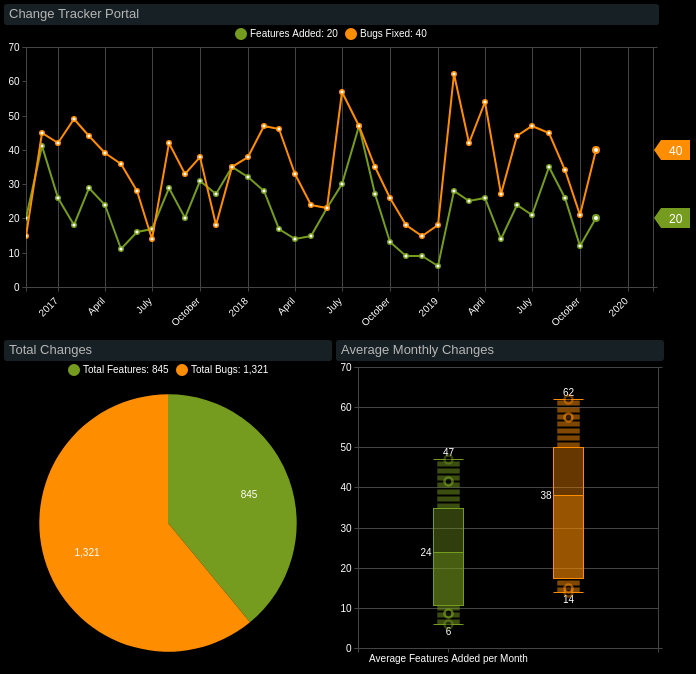
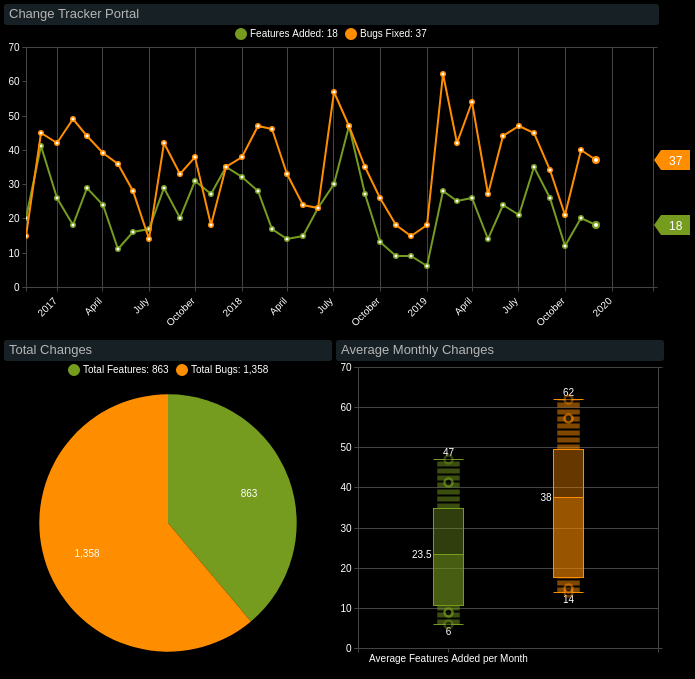
December change log (#948)
* December changelog

* Linter

* Update README.md

diff --git a/changelogs/2019_dec/README.md b/changelogs/2019_dec/README.md
@@ -1,0 +1,66 @@
+# Monthly Change Log: December 2019
+
+## ATSD
+
+ Issue| Category    | Type    | Subject
+------|-------------|---------|--------
+6153|api-rest|Feature|Series Query: implement MVEL user-defined functions.
+6511|api-rest|Feature|Series Query: add correlation and covariance functions.
+6519|rule editor|Feature|[Rule Editor](../../rule-engine/README.md): enhance **Test** tab layout.
+6606|rule engine|Feature|[Rule Engine](../../rule-engine/README.md): data availability monitoring.
+6616|rule engine|Bug|[Rule Engine](../../rule-engine/README.md): placeholder error does not contain rule name.
+6650|portal|Feature|[Portal](../../portals/README.md#portals) placeholder form in the portal editor.
+6653|core|Feature|Calendar expression: add [`current_working_day`](../../shared/calendar.md#previous-time).
+6665|rule engine|Bug|[Rule Engine](../../rule-engine/README.md): load history on **Date Filter** activation.
+6666|rule engine|Bug|[Rule Engine](../../rule-engine/README.md): add **Time Zone** and **Workday Calendar** settings.
+6677|sql|Bug|[SQL](../../sql/README.md): slow query due to [`date_format`](../../sql/README.md#date_format) condition not passed to filer.
+6679|rule editor|Bug|[Rule Editor](../../rule-engine/README.md): validation command ignores **Entity Filter**.
+6689|api-rest|Bug|REST API: [interpolate](../../api/data/series/interpolate.md#interpolation) `PREVIOUS` with `OUTER` fails to retrieve prior value.
+6690|api-rest|Feature|Series Query: add [`timezone`](../../api/data/series/query.md#control-fields) parameter.
+6700|rule engine|Bug|[Rule Engine](../../rule-engine/README.md): event script cannot invoke method.
+6703|rule engine|Bug|[Rule Engine](../../rule-engine/README.md): data availability triggered despite report filter.
+6708|UI|Bug|Replacement Table: formatting issues in CSV format.
+6713|sql|Bug|[SQL](../../sql/README.md): add line numbers or query substring in error messages.
+6716|rule engine|Bug|[Rule Engine](../../rule-engine/README.md): alerts not closed when testing multiple days with **Activate On** filter.
+6721|api-rest|Feature|REST API: intraday [filter](../../api/data/series/query.md#sample-filter) function for series query.
+6722|UI|Bug|SQL Query Plan: move **Query Console** and **Cancel Query** buttons to the top.
+6723|UI|Bug|[SQL Console](../../sql/sql-console.md): disable **Store** button after form submit.
+6725|rule editor|Feature|[Rule Engine](../../rule-engine/README.md): **Test** tab enhancements.
+6730|rule engine|Bug|[Rule Engine](../../rule-engine/README.md): speed up mock data loading for rules with **Activate On** filter.
+6733|rule engine|Bug|[Rule Engine](../../rule-engine/README.md): cannot compare [`entity.label`](../../rule-engine/placeholders.md#syntax) to string.
+6734|api-rest|Bug|REST API: return entity metadata if entity is specified in the [group](../../api/data/series/group.md) request.
+6737|rule engine|Bug|[Rule Engine](../../rule-engine/README.md): **Track state** for multiple entities produces incorrect portal and CSV links.
+6738|rule engine|Bug|[Rule Engine](../../rule-engine/README.md): history not loaded during **Test**.
+6740|rule editor|Bug|[Rule Editor](../../rule-engine/README.md): add entity drop-down to filter series.
+6743|rule engine|Feature|[Rule Engine](../../rule-engine/README.md): default date format with custom time zone.
+6745|rule engine|Bug|[Rule Editor](../../rule-engine/README.md): report filter not accepted.
+6747|search|Bug|Search: limit properties per entity.
+6749|rule engine|Feature|[Rule Engine](../../rule-engine/README.md): [`preciseNow`](../../rule-engine/functions-date.md#precise_now) function to get current time with microsecond precision.
+6752|rule engine|Bug|[Rule Engine](../../rule-engine/README.md): entity not present in error message.
+6754|rule engine|Bug|[Rule Engine](../../rule-engine/README.md): initialisation script is not evaluated during rule validation.
+6755|data-in|Feature|Property writes: configurable persistence.
+6756|portal|Bug|[Portal](../../portals/README.md#portals): persist user variables in browser storage.
+6757|portal|Bug|[Portal](../../portals/README.md#portals): function error.
+6758|portal|Bug|[Portal](../../portals/README.md#portals): portal image in email is broken.
+6760|core|Bug|Series schema: incorrect dictionary value returned.
+6761|rule engine|Bug|[Rule Engine](../../rule-engine/README.md): can not use [`date_format`](../../rule-engine/functions-date.md#date_format) on calendar in **Webhooks** tab.
+6765|rule editor|Bug|[Rule Editor](../../rule-engine/README.md): message [search](../../search/README.md#search) condition incorrect.
+6766|rule engine|Bug|[Rule Error](../../rule-engine/README.md#rule-errors): entity missing in details.
+6768|rule engine|Feature|[Rule Editor](../../rule-engine/README.md): configurable entity filter on [filter](../../rule-engine/filters.md#filter-expression) results page.
+6776|rule editor|Bug|[Rule Editor](../../rule-engine/README.md): store validation command with a rule.
+6778|core|Bug|[Workday Calendar](../../administration/workday-calendar.md#workday-calendar): update calendars for 2020.
+
+## Charts
+
+ Issue| Category    | Type    | Subject
+------|-------------|---------|--------
+5007|property|Feature|[Property widget](https://axibase.com/docs/charts/widgets/property-table/#property-table): apply different styles to key and tag columns.
+6688|core|Bug|Time processing: provide access to general time-related methods.
+6691|interval|Feature|Time parser: support mixed [expressions](https://axibase.com/docs/charts/syntax/date-expressions.html#date-expressions).
+6729|widget-settings|Feature|Settings: range-scale [settings](https://axibase.com/docs/charts/widgets/time-chart/#delta) to control auto-scaling.
+6732|widget-settings|Bug|Functions: implement [lookup functions](https://axibase.com/docs/charts/syntax/csv.html#functions) for CSV object.
+6736|core|Bug|[Time parser](https://axibase.com/docs/charts/widgets/shared/#date-filter): wrong string is successfully parsed.
+6742|widget-settings|Feature|Implement [`[axis]`](https://axibase.com/docs/charts/widgets/time-chart/#axis-settings) section.
+6770|table|Bug|[Icon](https://axibase.com/docs/charts/widgets/shared-table/#icon) setting became broken.
+6771|widget-settings|Feature|Settings: [`fix-start-time`](https://axibase.com/docs/charts/widgets/shared/#fix-start-time) setting to prevent changes in initial [`start-time`](https://axibase.com/docs/charts/widgets/shared/#date-filter).
+6777|core|Feature|Default label for series with [alias](https://axibase.com/docs/charts/widgets/shared/#alias).

diff --git a/changelogs/README.md b/changelogs/README.md
@@ -10,6 +10,7 @@ Follow development in the **Change Tracker Portal** and review details in the **
 
 | **Month** | **Features** | **Bugs** | &nbsp;
 |---|---:|---:|---|
+| December | `18` | `37` | [↗](2019_dec/README.md)
 | November | `20` | `40` | [↗](2019_nov/README.md)
 | October | `12` | `21` | [↗](2019_oct/README.md)
 | September | `26` | `34` | [↗](2019_sep/README.md)
